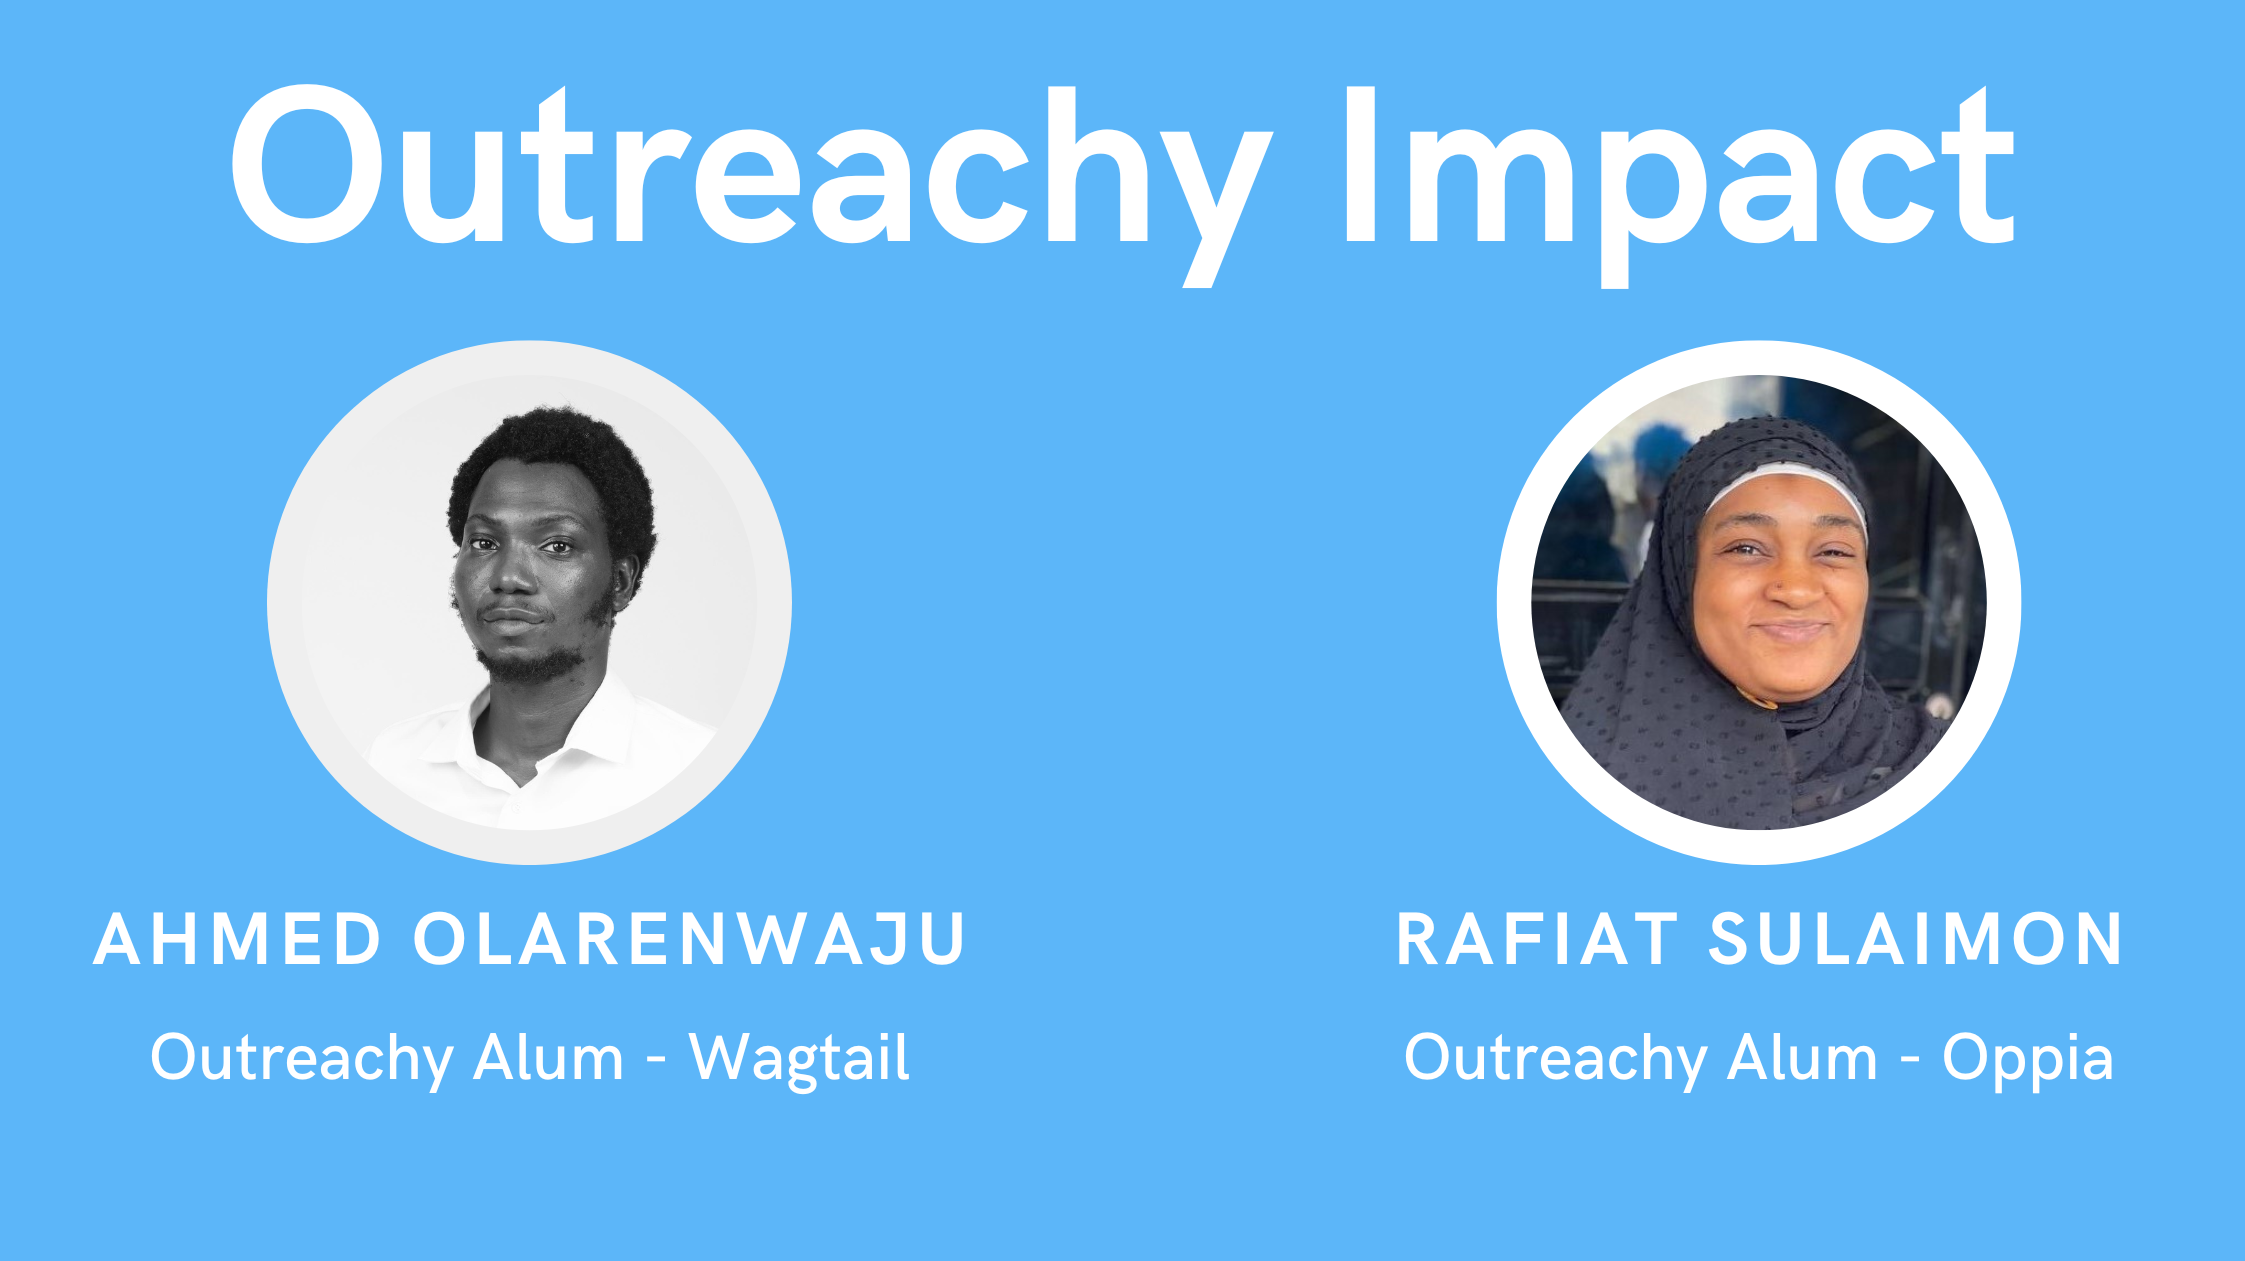
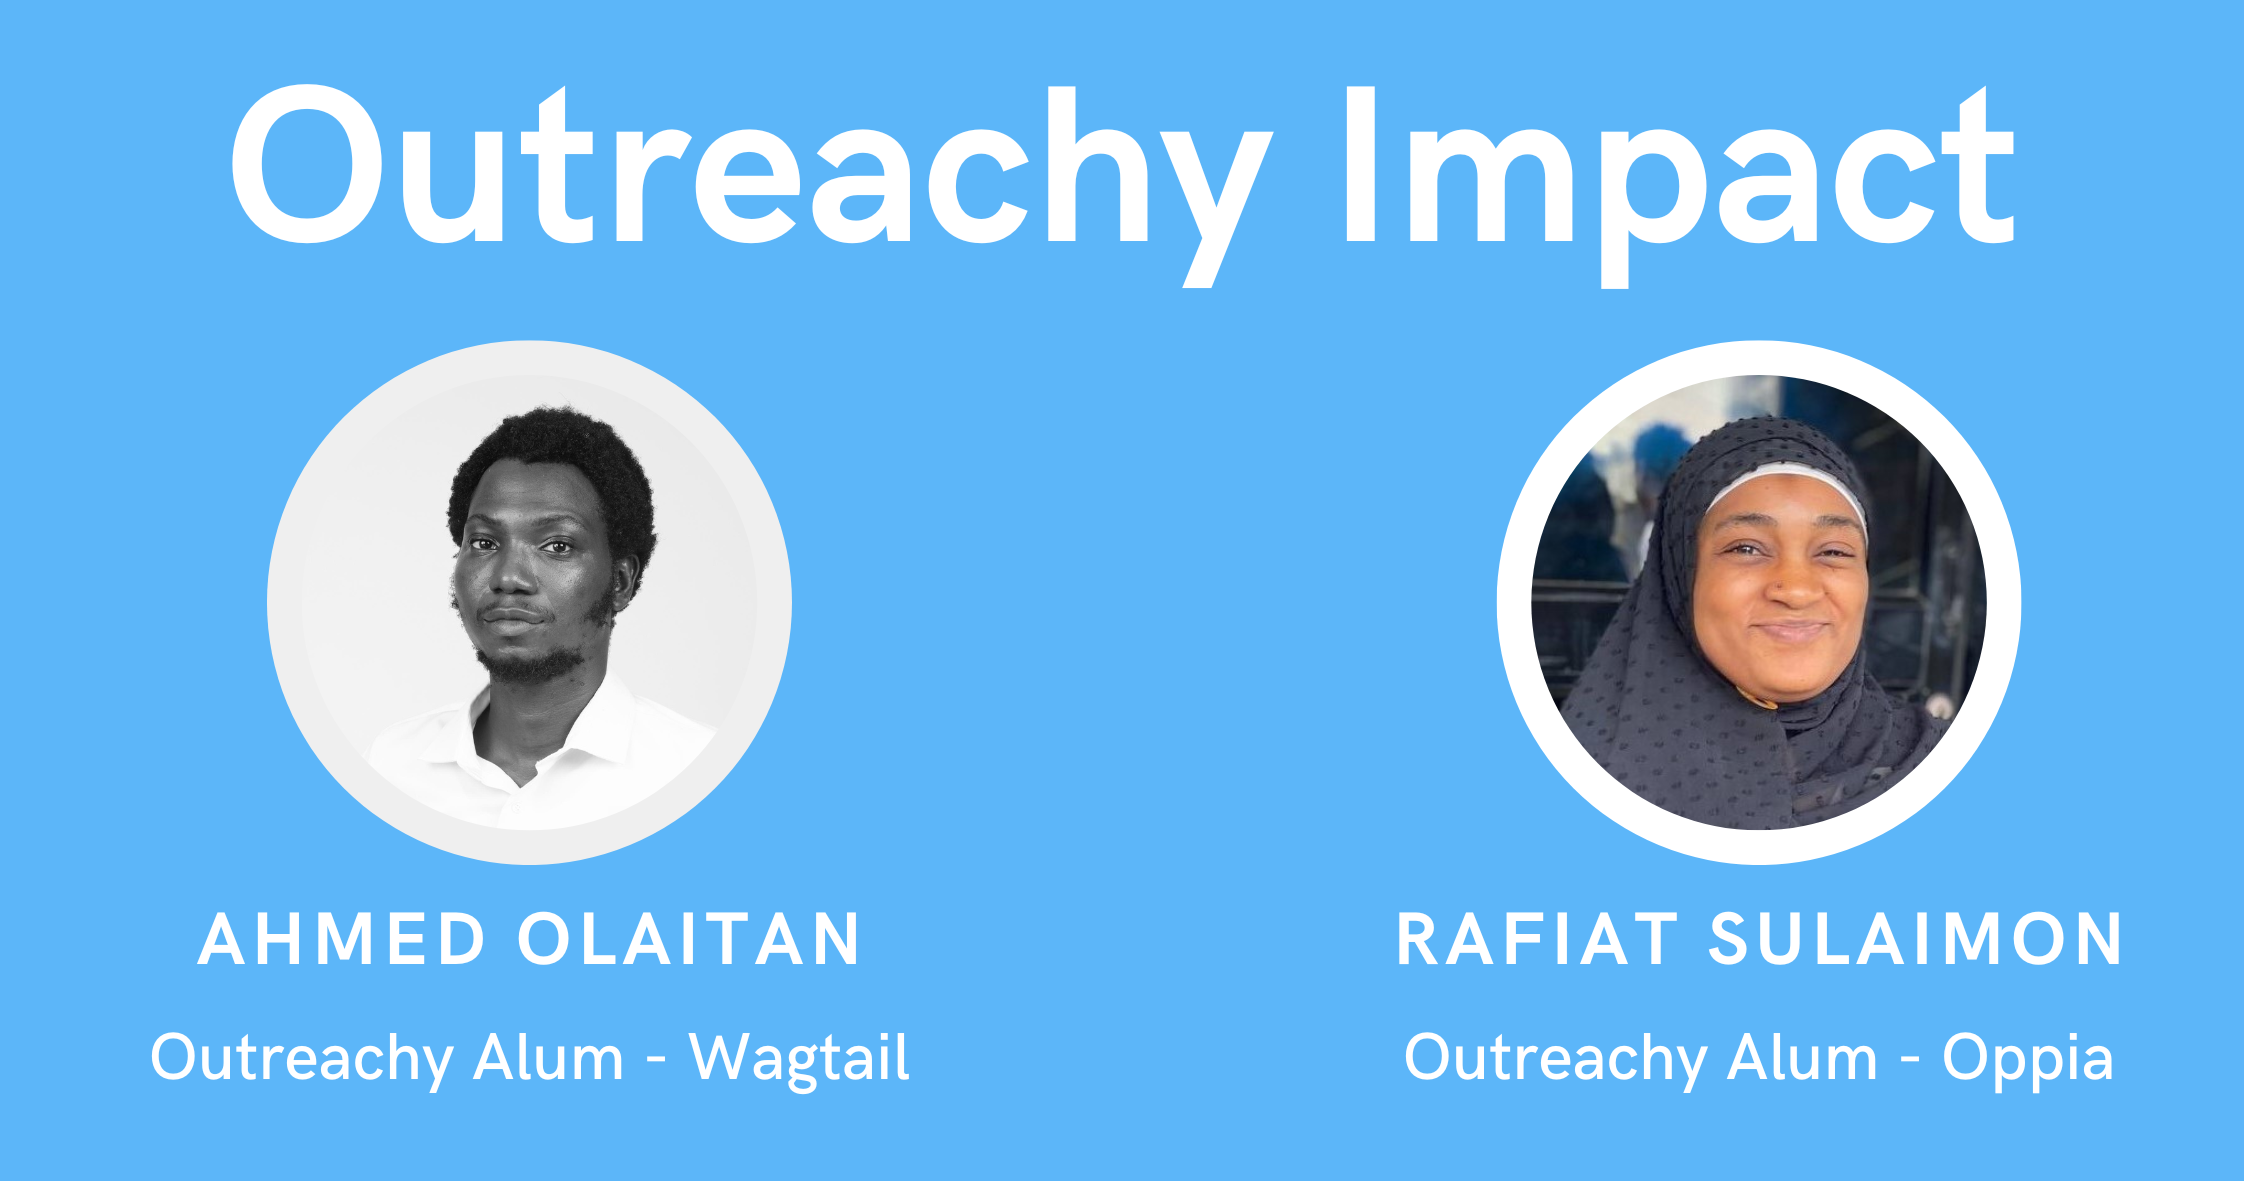
Update's Ahmed's name to Olaitan

diff --git a/home/templates/home/blog/2024-07-19-outreachy-impact-ahmed-rafiat.html b/home/templates/home/blog/2024-07-19-outreachy-impact-ahmed-rafiat.html
@@ -12,11 +12,11 @@
   </p>
   <div class="mb-4 mt-4">
     <img src="{% static 'intern-spotlight/ahmed-rafiat-banner.png' %}"
-         alt="Banner image shows portraits of Outreachy interns - Ahmed Olarenwaju (left) and Rafiat Sulaimon (right) interviewed for this blog post."
+         alt="Banner image shows portraits of Outreachy interns - Ahmed Olaitan (left) and Rafiat Sulaimon (right) interviewed for this blog post."
          class="rounded mx-auto d-block img-fluid"
          width="800">
     <figcaption class="text-center font-italic">
-      Photo: Ahmed Olarenwaju (left), Rafiat Sulaimon (right). Photo Copyright: Ahmed Olarenwaju, Rafiat Sulaimon (respective owners).
+      Photo: Ahmed Olaitan (left), Rafiat Sulaimon (right). Photo Copyright: Ahmed Olaitan, Rafiat Sulaimon (respective owners).
     </figcaption>
   </div>
   <h2>Rafiat's Journey: Creating Engaging Science Lessons with Oppia</h2>
@@ -69,7 +69,7 @@
   </p>
   <h2>Ahmed's Experience: Documenting Accessibility Tools for Wagtail</h2>
   <p>
-    Ahmed Olarenwaju, an Outreachy intern with Wagtail, worked on documenting accessibility tools for Wagtail. We spoke with Ahmed to learn about his internship experience and how the Outreachy program has impacted him.
+    Ahmed Olaitan, an Outreachy intern with Wagtail, worked on documenting accessibility tools for Wagtail. We spoke with Ahmed to learn about his internship experience and how the Outreachy program has impacted him.
   </p>
   <h3 class="font-italic">Interview with Ahmed</h3>
   <p>
@@ -86,7 +86,7 @@
   </p>
   <p>
     <a href="https://olanrewajuolaitan.substack.com/p/accessibility-and-usability-like"
-       target="_blank">Accessibility and Usability by Ahmed Olarenwaju</a>
+       target="_blank">Accessibility and Usability by Ahmed Olaitan</a>
   </p>
   <p>
     <b>Q: Did you face any challenges during your internship?</b>
